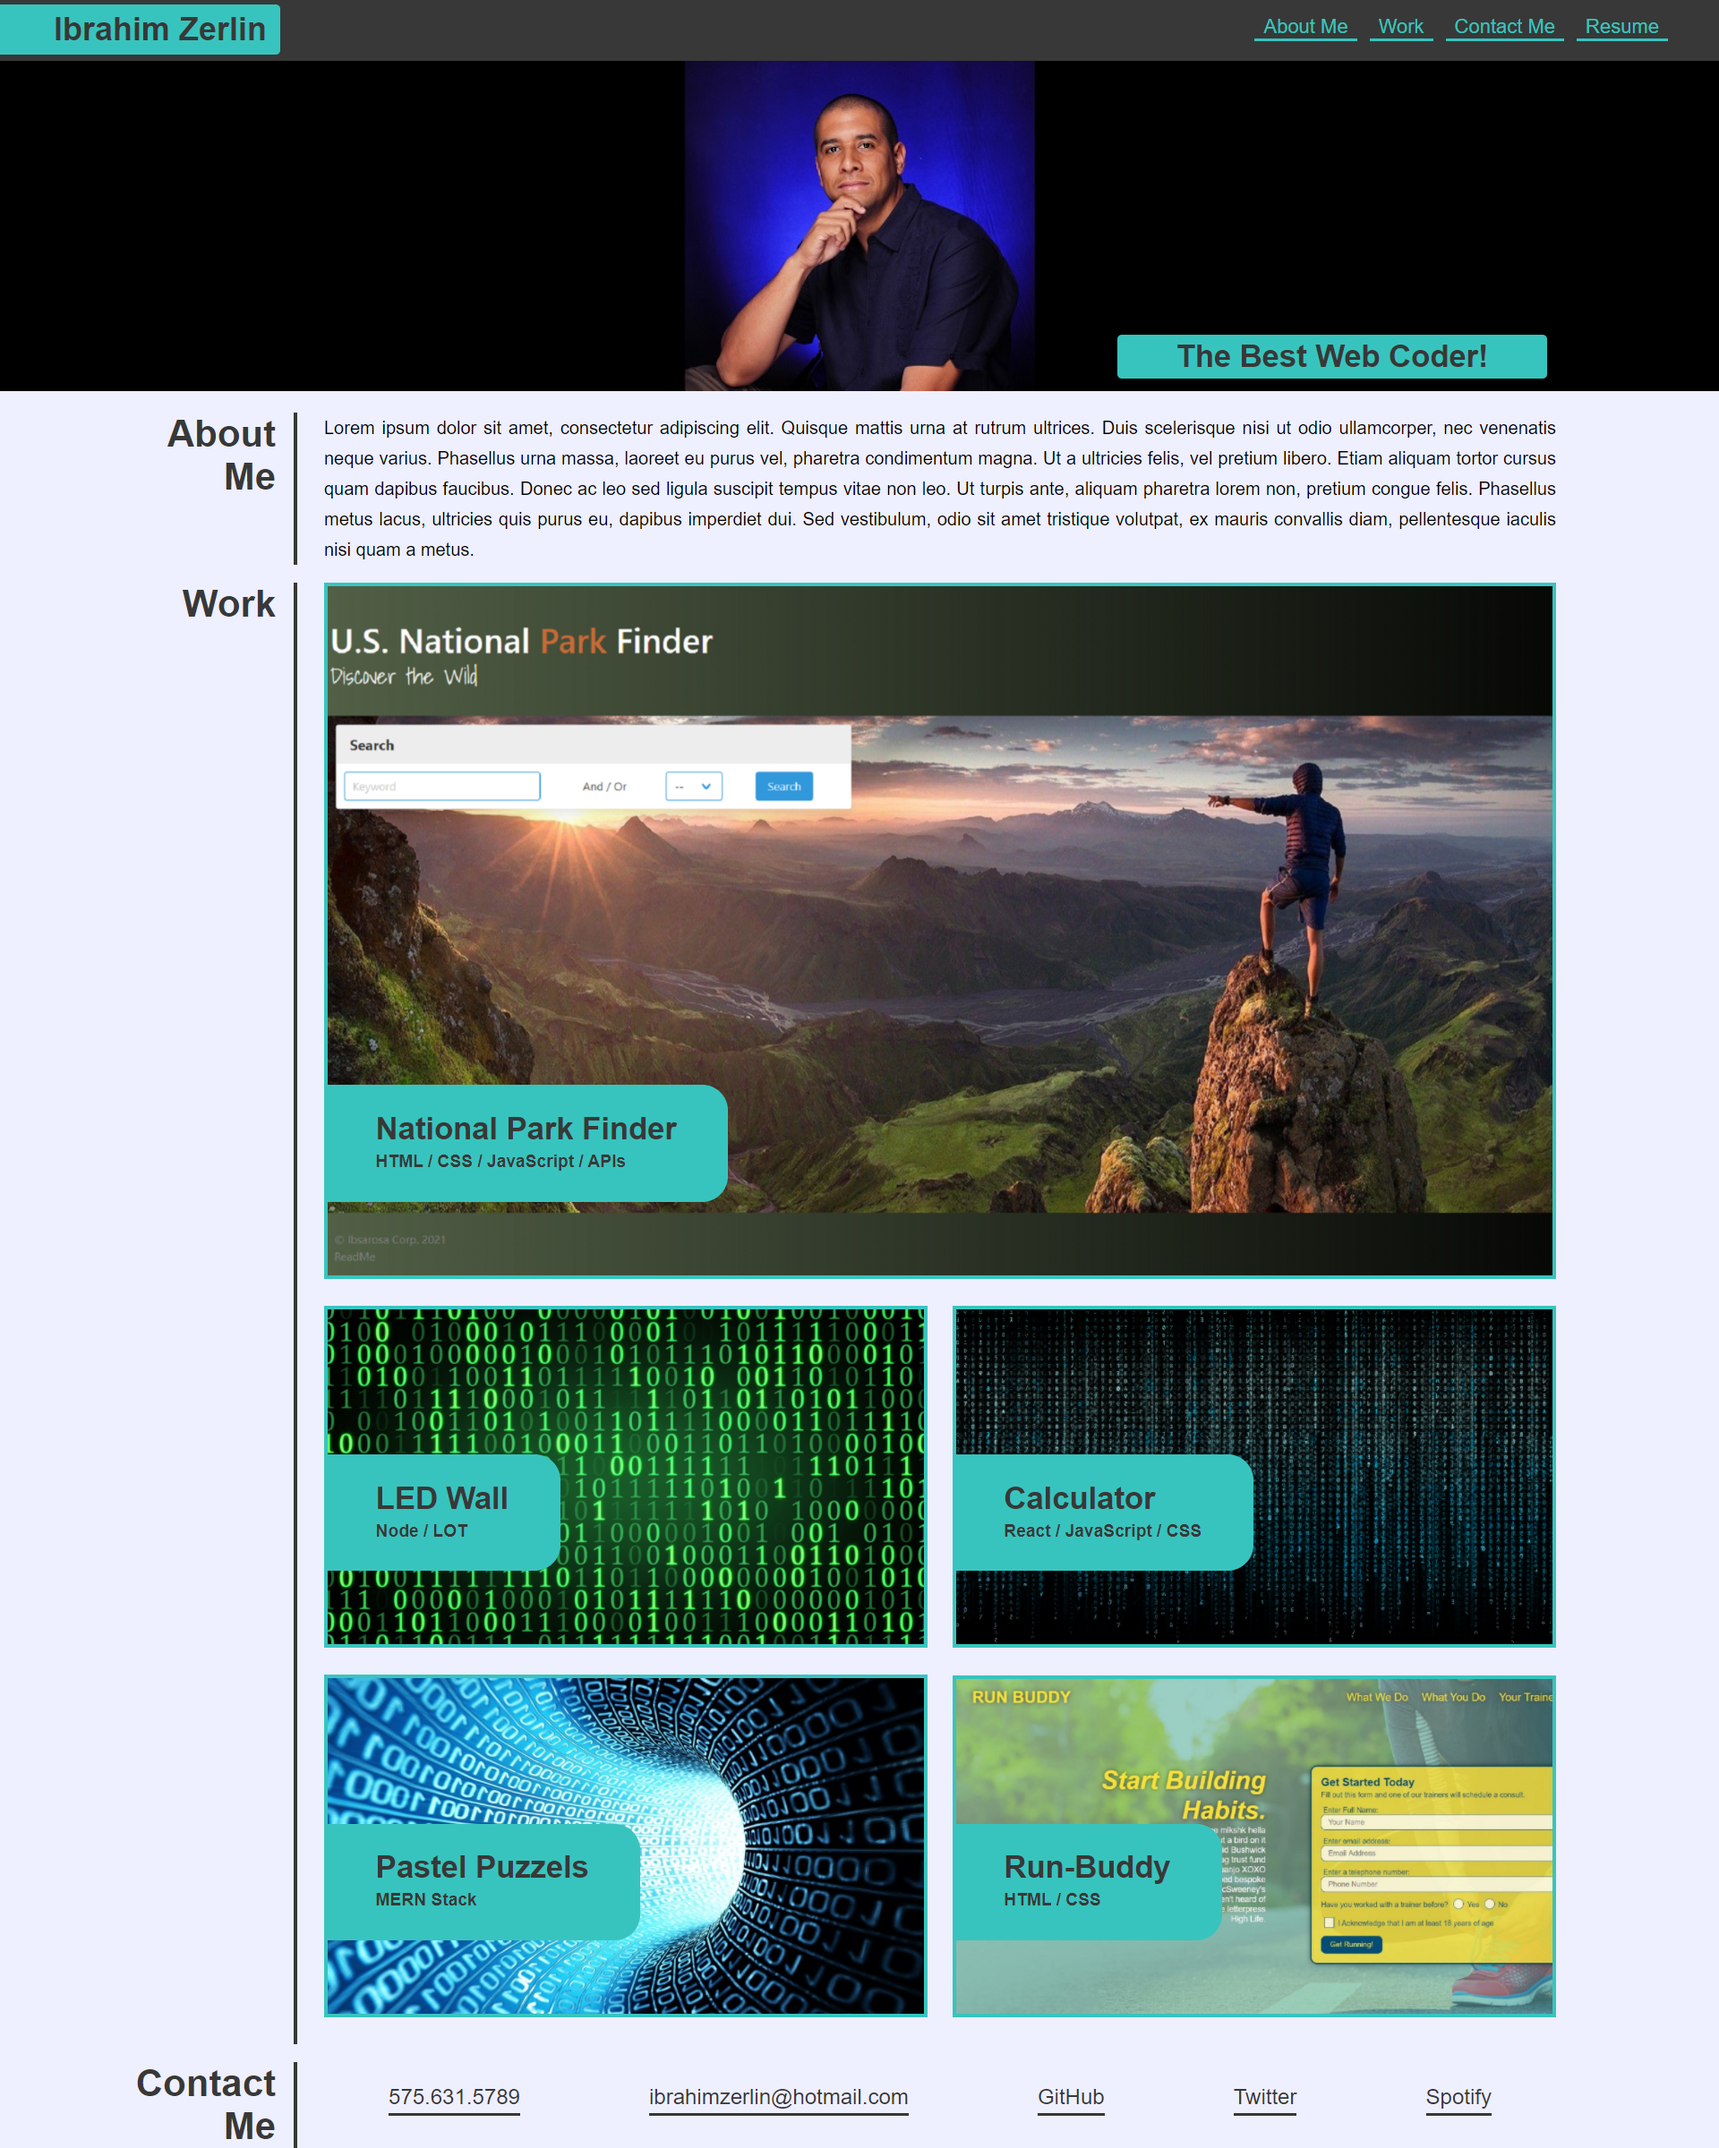
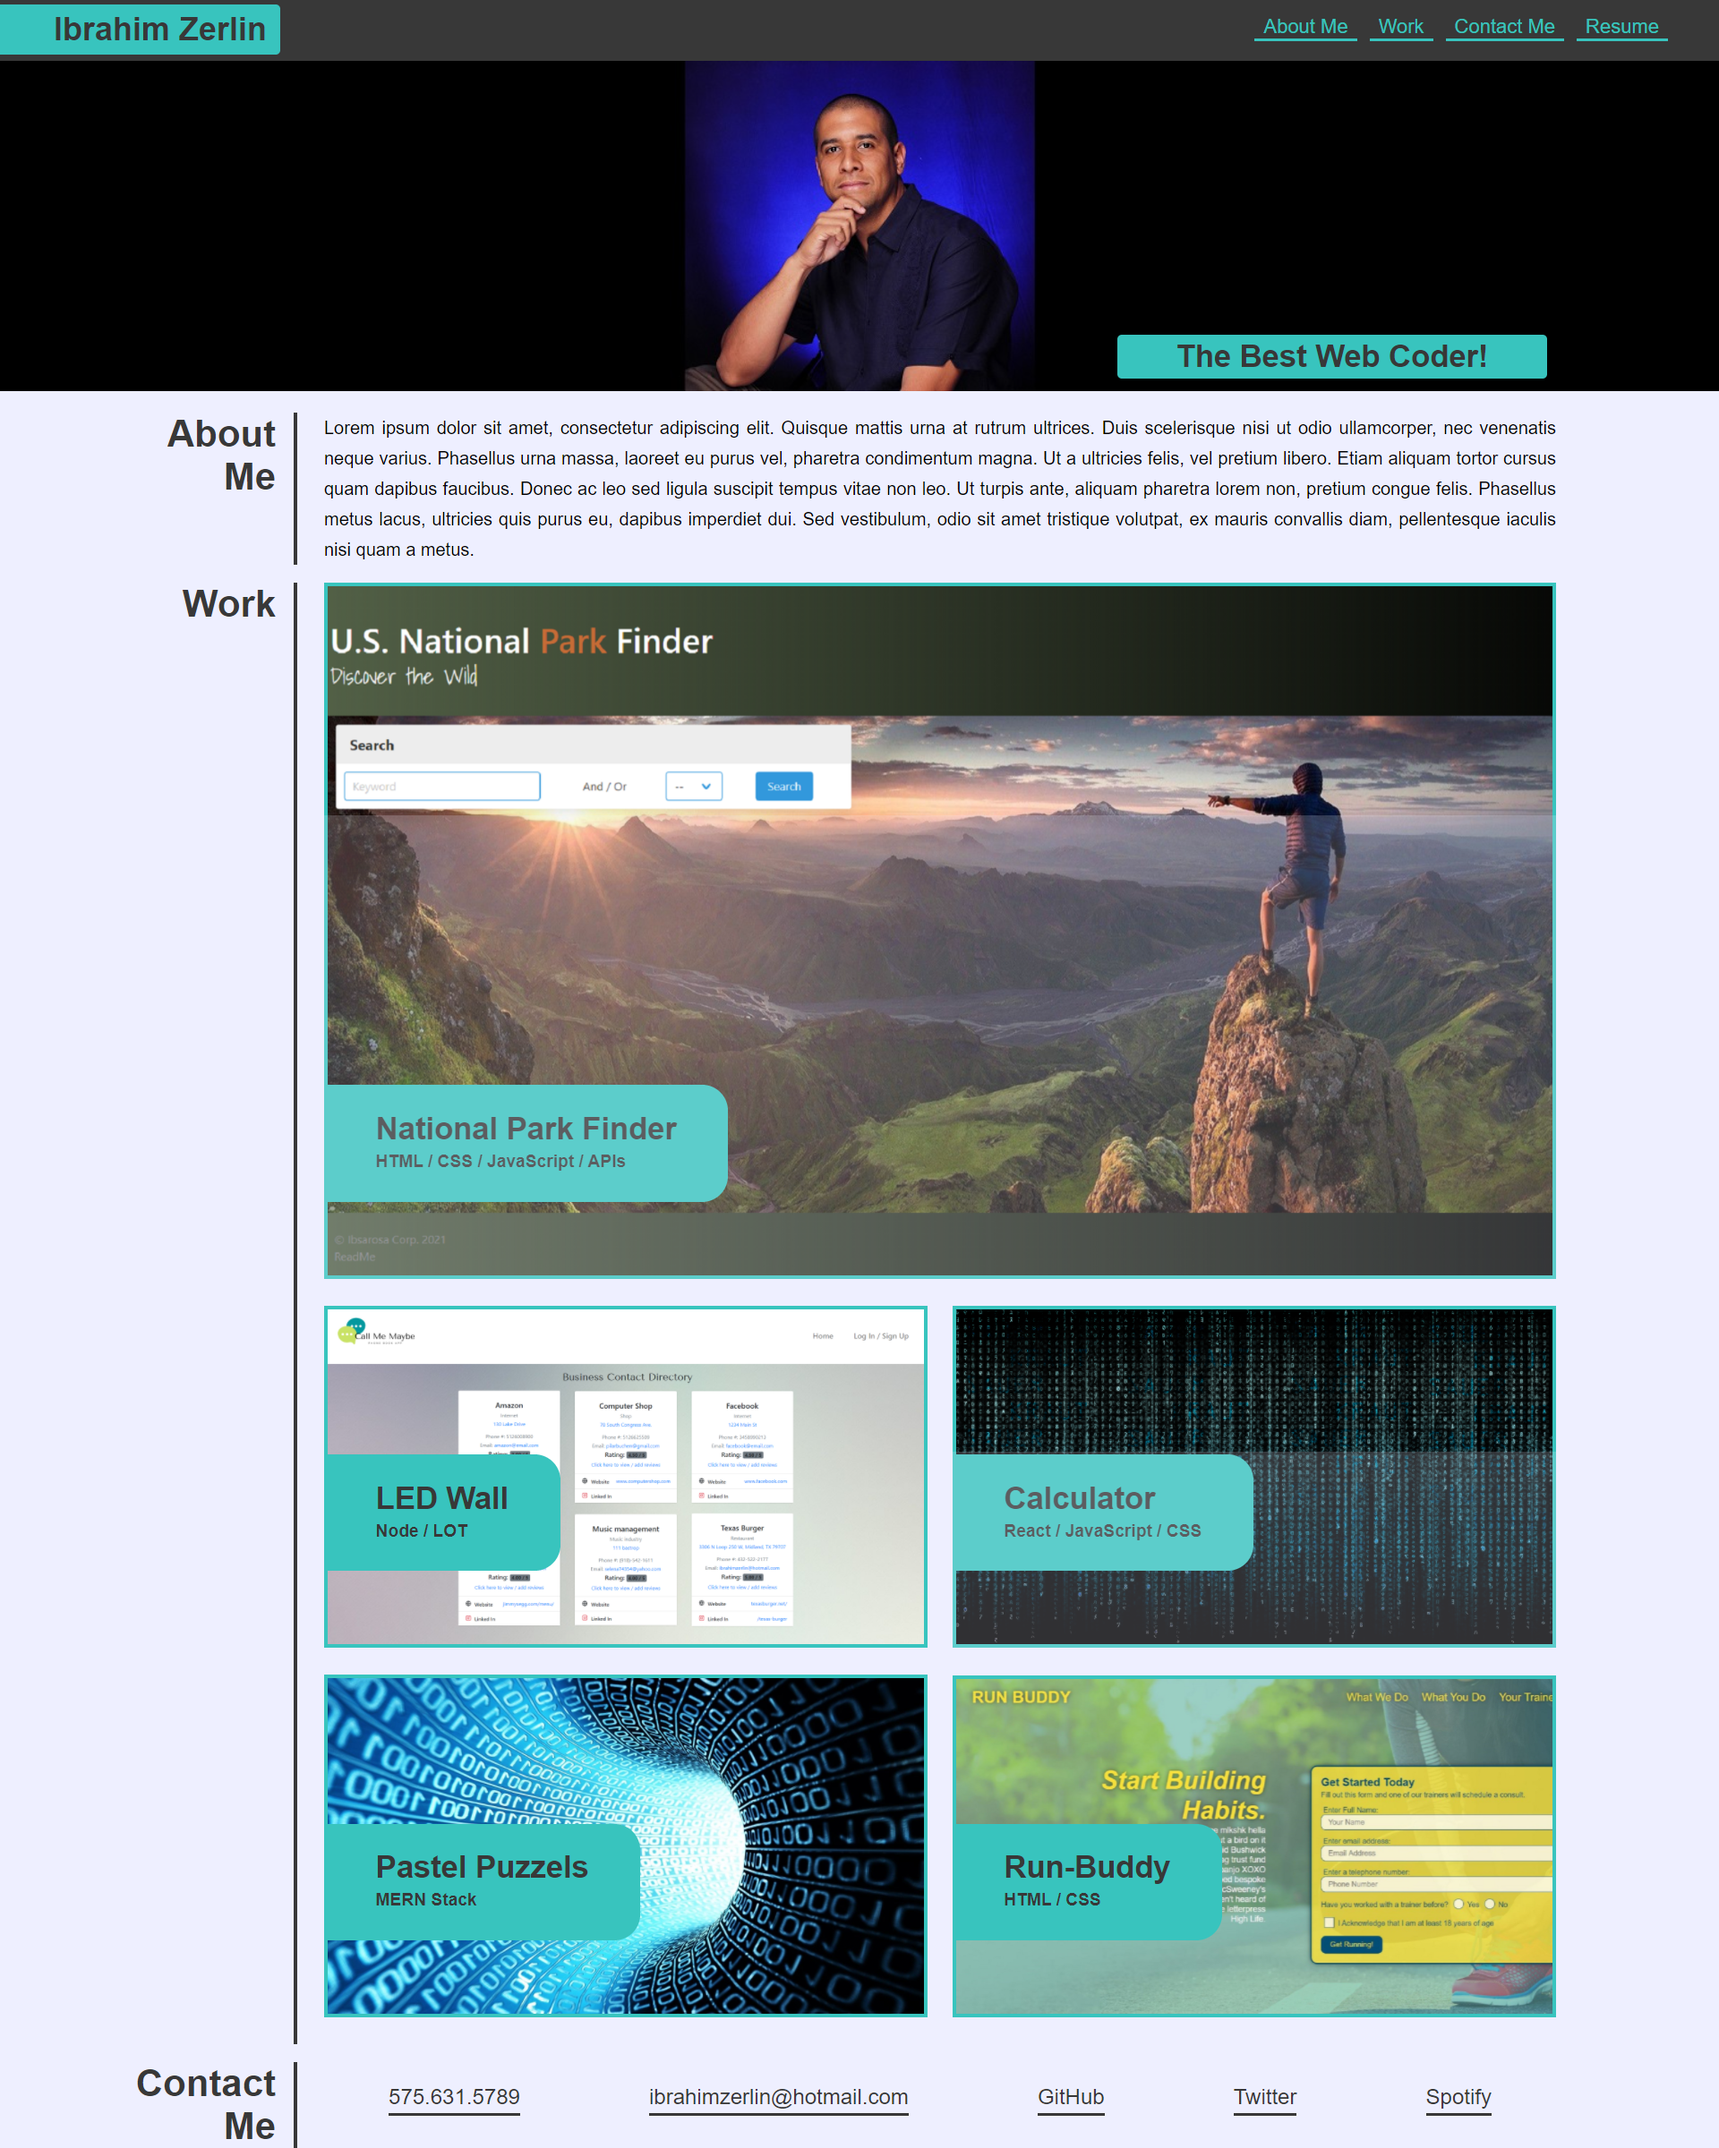
portfolio update with call me maybe

Changed region(s): [[0.1875, 0.375, 0.9062, 0.7812]]

diff --git a/index.html b/index.html
@@ -69,11 +69,11 @@
                         </a>
                     </div>
                     <div class="work-secondary">
-                        <a href="https://hbbc248.github.io/run-buddy/">
-                            <img src="./assets/images/Image-of-Binary.jpg" alt="digital world arquitecture" class="image"/>                          
+                        <a href="https://call-me-maybe-gp2.herokuapp.com/">
+                            <img src="./assets/images/call-me-maybe.png" alt="Call me maybe app" class="image"/>                          
                         <div class="image-title">
-                        <h3>LED Wall</h3>
-                        <h4>Node / LOT</h4>
+                        <h3>Call Me Maybe</h3>
+                        <h4>Node / Express / MySQL / MVC </h4>
                         </div>
                         </a>
                     </div>
